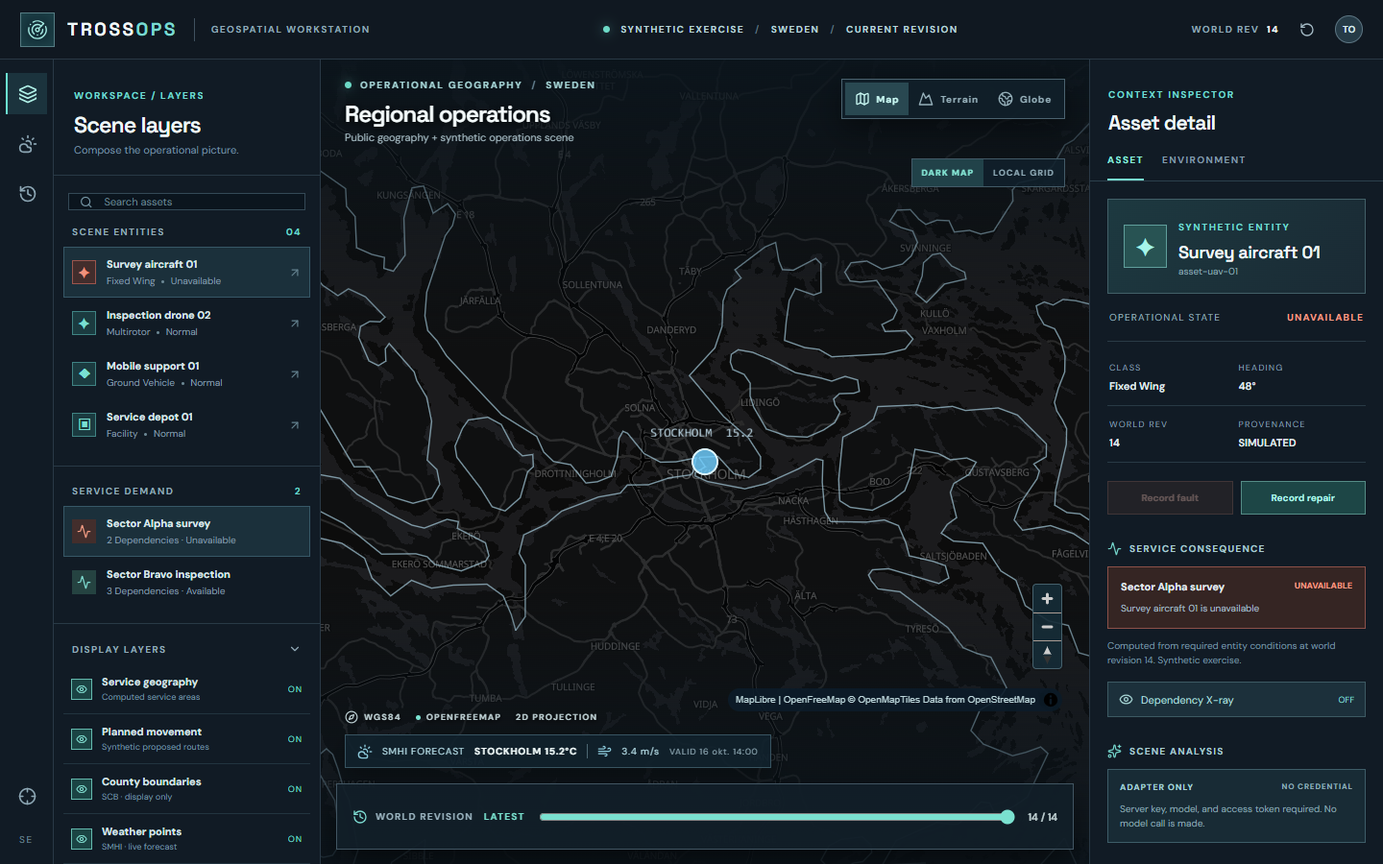
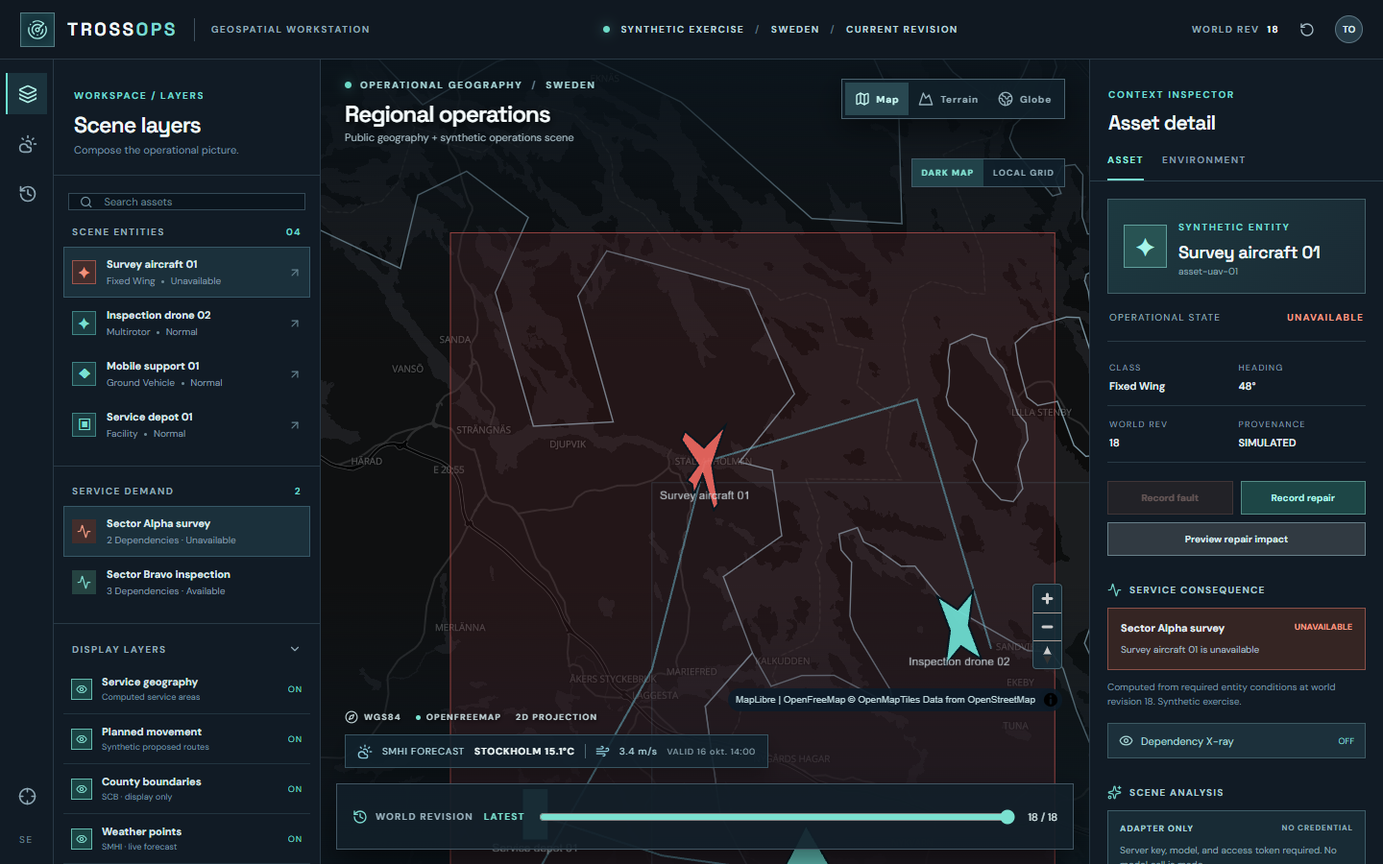
feat: preview synthetic service impacts without mutating world

diff --git a/frontend/src/App.tsx b/frontend/src/App.tsx
@@ -5,7 +5,7 @@ import {
   MapPin, Mountain, Radar, RotateCcw, Search, Shield, Sparkles, Thermometer, Wind,
 } from 'lucide-react'
 import { MapScene } from './MapScene'
-import type { Entity, Forecast, Scene, ViewMode } from './types'
+import type { Entity, Forecast, ScenarioPreview, Scene, ViewMode } from './types'
 
 type Panel = 'layers' | 'environment' | 'activity'
 type LayerKey = 'areas' | 'routes' | 'counties' | 'weather' | 'dependencies'
@@ -67,10 +67,13 @@ export function App() {
   const [analysis, setAnalysis] = useState<{ answer: string; worldRevision: number; serviceId: string; model: string } | null>(null)
   const [analysisBusy, setAnalysisBusy] = useState(false)
   const [analysisAccessToken, setAnalysisAccessToken] = useState('')
+  const [preview, setPreview] = useState<ScenarioPreview | null>(null)
+  const [previewBusy, setPreviewBusy] = useState(false)
   const revisionRequest = useRef(0)
 
-  const selected = scene?.entities.find(entity => entity.id === selectedId)
-  const service = scene?.services.find(item => item.id === selectedServiceId)
+  const displayScene = preview?.candidate ?? scene
+  const selected = displayScene?.entities.find(entity => entity.id === selectedId)
+  const service = displayScene?.services.find(item => item.id === selectedServiceId)
   const forecast = forecasts.find(item => item.location === selectedLocation)
   const replaying = !!scene && scene.worldRevision < scene.latestRevision
   const unavailableCount = scene?.services.filter(item => item.status === 'unavailable').length ?? 0
@@ -79,6 +82,7 @@ export function App() {
 
   async function refreshScene() {
     setError('')
+    setPreview(null)
     try {
       const response = await fetch('/api/scene')
       if (!response.ok) throw new Error(`Scene request failed: ${response.status}`)
@@ -110,6 +114,7 @@ export function App() {
   async function loadRevision(revision: number) {
     const request = ++revisionRequest.current
     setError('')
+    setPreview(null)
     try {
       const response = await fetch(`/api/scene?revision=${revision}`)
       if (!response.ok) throw new Error(`Revision ${revision} could not be loaded`)
@@ -119,7 +124,7 @@ export function App() {
   }
 
   async function update(kind: 'fault' | 'repair') {
-    if (!scene || !selected || replaying) return
+    if (!scene || !selected || replaying || preview) return
     setBusy(true)
     setError('')
     try {
@@ -148,6 +153,21 @@ export function App() {
     } catch (cause) { setError(String(cause)) } finally { setAnalysisBusy(false) }
   }
 
+  async function previewEvent(kind: 'fault' | 'repair') {
+    if (!scene || !selected) return
+    setPreviewBusy(true)
+    setError('')
+    try {
+      const response = await fetch('/api/scenarios/preview', {
+        method: 'POST', headers: { 'Content-Type': 'application/json' },
+        body: JSON.stringify({ assetId: selected.id, kind, baseRevision: scene.worldRevision }),
+      })
+      if (!response.ok) throw new Error('Scenario preview unavailable.')
+      setPreview(await response.json())
+      setFocus({ point: [selected.position.longitudeDeg, selected.position.latitudeDeg], zoom: 9.6, key: Date.now() })
+    } catch (cause) { setError(String(cause)) } finally { setPreviewBusy(false) }
+  }
+
   function focusCity(key: string) {
     setSelectedLocation(key)
     setInspectorTab('environment')
@@ -160,7 +180,7 @@ export function App() {
   return <div className="ws-shell">
     <header className="ws-topbar">
       <div className="ws-brand"><div className="ws-brand-icon"><Radar size={22} strokeWidth={1.5} /></div><span className="ws-wordmark">TROSS<span>OPS</span></span><span className="ws-brand-rule" /><span className="ws-product">GEOSPATIAL WORKSTATION</span></div>
-      <div className="ws-top-center"><span className="ws-online-pip" /> SYNTHETIC EXERCISE <span className="ws-top-separator">/</span> SWEDEN <span className="ws-top-separator">/</span> {replaying ? 'REPLAY' : 'CURRENT REVISION'}</div>
+      <div className="ws-top-center"><span className="ws-online-pip" /> SYNTHETIC EXERCISE <span className="ws-top-separator">/</span> SWEDEN <span className="ws-top-separator">/</span> {preview ? 'WHAT-IF PREVIEW' : replaying ? 'REPLAY' : 'CURRENT REVISION'}</div>
       <div className="ws-top-actions"><span className="ws-top-revision">WORLD REV <b>{scene?.worldRevision ?? '—'}</b></span><button title="Reload scene" onClick={() => void refreshScene()}><RotateCcw size={16} /></button><div className="ws-avatar">TO</div></div>
     </header>
 
@@ -173,9 +193,9 @@ export function App() {
       <aside className="ws-sidebar">
         <div className="ws-sidebar-heading"><span className="ws-eyebrow">WORKSPACE / {panel.toUpperCase()}</span><h1>{panel === 'layers' ? 'Scene layers' : panel === 'environment' ? 'Environment' : 'Activity log'}</h1><p>{panel === 'layers' ? 'Compose the operational picture.' : panel === 'environment' ? 'Public forecasts from SMHI.' : 'Revisioned synthetic event history.'}</p></div>
         {panel === 'layers' && <>
-          <AssetList entities={scene?.entities ?? []} selectedId={selectedId} search={search} setSearch={setSearch} onSelect={selectAsset} />
+          <AssetList entities={displayScene?.entities ?? []} selectedId={selectedId} search={search} setSearch={setSearch} onSelect={selectAsset} />
           <div className="ws-list-head ws-spaced"><span>SERVICE DEMAND</span><span>{scene?.services.length ?? 0}</span></div>
-          <div className="ws-service-list">{scene?.services.map(item => <button key={item.id} className={`ws-service ${item.id === selectedServiceId ? 'active' : ''}`} onClick={() => setSelectedServiceId(item.id)}><span className={`ws-service-icon ${item.status}`}><Activity size={15} /></span><span><strong>{item.label}</strong><small>{item.requiredEntityIds.length} dependencies · {item.status}</small></span></button>)}</div>
+          <div className="ws-service-list">{displayScene?.services.map(item => <button key={item.id} className={`ws-service ${item.id === selectedServiceId ? 'active' : ''}`} onClick={() => setSelectedServiceId(item.id)}><span className={`ws-service-icon ${item.status}`}><Activity size={15} /></span><span><strong>{item.label}</strong><small>{item.requiredEntityIds.length} dependencies · {item.status}</small></span></button>)}</div>
           <div className="ws-list-head ws-spaced"><span>DISPLAY LAYERS</span><ChevronDown size={14} /></div>
           <LayerSwitch label="Service geography" detail="Computed service areas" checked={layers.areas} onClick={() => toggleLayer('areas')} />
           <LayerSwitch label="Planned movement" detail="Synthetic proposed routes" checked={layers.routes} onClick={() => toggleLayer('routes')} />
@@ -185,13 +205,14 @@ export function App() {
         </>}
         {panel === 'environment' && <><div className="ws-list-head"><span>PUBLIC FORECAST POINTS</span><span>{weatherLoading ? 'SYNC' : '04'}</span></div><div className="ws-city-list">{cityOrder.map(key => { const item = forecasts.find(value => value.location === key); return <button key={key} className={`ws-city ${selectedLocation === key ? 'active' : ''}`} onClick={() => focusCity(key)}><MapPin size={15} /><span><strong>{item?.label ?? key}</strong><small>{item?.status === 'connected' ? `Valid ${formatTime(item.validTime)}` : 'Source unavailable'}</small></span><b>{item?.status === 'connected' ? `${numberText(item.data?.air_temperature, 1)}°` : '—'}</b></button> })}</div><div className="ws-source-note"><Shield size={16} /><span>Forecast data is public and time stamped. It is not an observation or a direct input to service feasibility.</span></div></>}
         {panel === 'activity' && <><div className="ws-list-head"><span>EVENT STREAM</span><span>REV {scene?.worldRevision ?? '—'}</span></div><div className="ws-event-list">{scene?.events.length ? [...scene.events].reverse().map(event => <div className="ws-event" key={event.id}><span className={`ws-event-dot ${event.kind}`} /><div><strong>{event.kind === 'fault' ? 'Fault recorded' : 'Repair recorded'}</strong><small>{event.assetId} · {formatTime(event.recordedAt)}</small></div><b>R{event.worldRevision}</b></div>) : <p className="ws-empty">No events at this revision.</p>}</div></>}
-        <div className="ws-sidebar-footer"><Database size={15} /><span>{scene?.dataNotice ?? 'Connecting to scene...'}</span></div>
+        <div className="ws-sidebar-footer"><Database size={15} /><span>{displayScene?.dataNotice ?? 'Connecting to scene...'}</span></div>
       </aside>
 
       <main className="ws-stage">
-        <MapScene scene={scene} selectedId={selectedId} selectedServiceId={selectedServiceId} showDependencies={layers.dependencies} showRoutes={layers.routes} showAreas={layers.areas} showCounties={layers.counties} showWeather={layers.weather} basemapMode={basemapMode} viewMode={viewMode} forecasts={forecasts} focus={focus} onBasemapFailure={() => setBasemapMode('local')} onSelect={selectAsset} onSelectWeather={focusCity} />
+        <MapScene scene={displayScene} selectedId={selectedId} selectedServiceId={selectedServiceId} showDependencies={layers.dependencies} showRoutes={layers.routes} showAreas={layers.areas} showCounties={layers.counties} showWeather={layers.weather} basemapMode={basemapMode} viewMode={viewMode} forecasts={forecasts} focus={focus} onBasemapFailure={() => setBasemapMode('local')} onSelect={selectAsset} onSelectWeather={focusCity} />
         <div className="ws-stage-vignette" aria-hidden="true" />
-        <div className="ws-scene-header"><div><div className="ws-scene-kicker"><span className="ws-pulse" /> OPERATIONAL GEOGRAPHY <span className="ws-slash">/</span> SWEDEN</div><h2>{viewMode === 'globe' ? 'Northern Europe' : viewMode === 'terrain' ? 'Terrain perspective' : 'Regional operations'}</h2><p>Public geography + synthetic operations scene</p></div><div className="ws-mode-switch" role="group" aria-label="Map view mode"><button className={viewMode === 'map' ? 'active' : ''} onClick={() => setViewMode('map')}><MapIcon size={16} /> Map</button><button className={viewMode === 'terrain' ? 'active' : ''} onClick={() => setViewMode('terrain')}><Mountain size={16} /> Terrain</button><button className={viewMode === 'globe' ? 'active' : ''} onClick={() => setViewMode('globe')}><Globe2 size={16} /> Globe</button></div></div>
+        <div className="ws-scene-header"><div><div className="ws-scene-kicker"><span className="ws-pulse" /> {preview ? 'HYPOTHETICAL SCENE' : 'OPERATIONAL GEOGRAPHY'} <span className="ws-slash">/</span> SWEDEN</div><h2>{viewMode === 'globe' ? 'Northern Europe' : viewMode === 'terrain' ? 'Terrain perspective' : 'Regional operations'}</h2><p>Public geography + synthetic operations scene</p></div><div className="ws-mode-switch" role="group" aria-label="Map view mode"><button className={viewMode === 'map' ? 'active' : ''} onClick={() => setViewMode('map')}><MapIcon size={16} /> Map</button><button className={viewMode === 'terrain' ? 'active' : ''} onClick={() => setViewMode('terrain')}><Mountain size={16} /> Terrain</button><button className={viewMode === 'globe' ? 'active' : ''} onClick={() => setViewMode('globe')}><Globe2 size={16} /> Globe</button></div></div>
+        {preview && <div className="ws-preview-banner"><span>WHAT IF / {preview.eventKind.toUpperCase()} / {preview.assetId}</span><b>{preview.impacts.length} SERVICE {preview.impacts.length === 1 ? 'CHANGE' : 'CHANGES'}</b><button onClick={() => setPreview(null)}>Exit preview</button></div>}
         <div className="ws-map-tools"><button className={basemapMode === 'online' ? 'active' : ''} onClick={() => setBasemapMode('online')}>DARK MAP</button><button className={basemapMode === 'local' ? 'active' : ''} onClick={() => setBasemapMode('local')}>LOCAL GRID</button></div>
         <div className="ws-map-meta"><span><Compass size={14} /> WGS84</span><span><span className="ws-map-meta-dot" /> {basemapMode === 'online' ? 'OPENFREEMAP' : 'LOCAL MODE'}</span><span>{viewMode === 'terrain' ? 'MAPTERHORN DEM' : viewMode === 'globe' ? 'GLOBE PROJECTION' : '2D PROJECTION'}</span></div>
         <div className="ws-weather-ribbon"><CloudSun size={16} /><span>SMHI FORECAST</span><b>{forecast?.status === 'connected' ? `${forecast.label.toUpperCase()} ${numberText(forecast.data?.air_temperature, 1)}°C` : 'UNAVAILABLE'}</b><span className="ws-ribbon-divider" /> <Wind size={15} /><span>{forecast?.status === 'connected' ? `${numberText(forecast.data?.wind_speed, 1)} m/s` : '—'}</span><small>{forecast?.status === 'connected' ? `VALID ${formatTime(forecast.validTime)}` : 'NO LIVE VALUE'}</small></div>
@@ -200,9 +221,9 @@ export function App() {
       </main>
 
       <aside className="ws-inspector"><div className="ws-inspector-head"><div><span className="ws-eyebrow">CONTEXT INSPECTOR</span><h2>{inspectorTab === 'asset' ? 'Asset detail' : 'Environmental data'}</h2></div></div><div className="ws-inspector-tabs"><button className={inspectorTab === 'asset' ? 'active' : ''} onClick={() => setInspectorTab('asset')}>ASSET</button><button className={inspectorTab === 'environment' ? 'active' : ''} onClick={() => setInspectorTab('environment')}>ENVIRONMENT</button></div>
-        {inspectorTab === 'asset' ? <div className="ws-inspector-content"><div className="ws-object-card"><div className="ws-object-icon">{selected?.kind === 'facility' ? '▣' : selected?.kind === 'ground_vehicle' ? '◆' : '✦'}</div><div><span className="ws-eyebrow">SYNTHETIC ENTITY</span><h3>{selected?.label ?? 'Select an asset'}</h3><p>{selected?.resourceId ?? 'No selection'}</p></div></div>{selected && <><div className="ws-status-line"><span>OPERATIONAL STATE</span><b className={selected.condition}>{selected.condition.toUpperCase()}</b></div><div className="ws-detail-grid"><div><span>CLASS</span><b>{selected.kind.replace('_', ' ')}</b></div><div><span>HEADING</span><b>{selected.headingDeg}°</b></div><div><span>WORLD REV</span><b>{selected.worldRevision}</b></div><div><span>PROVENANCE</span><b>SIMULATED</b></div></div><div className="ws-object-actions"><button disabled={busy || replaying || selected.condition === 'unavailable'} onClick={() => void update('fault')}>Record fault</button><button disabled={busy || replaying || selected.condition === 'normal'} onClick={() => void update('repair')}>Record repair</button></div></>}
+        {inspectorTab === 'asset' ? <div className="ws-inspector-content"><div className="ws-object-card"><div className="ws-object-icon">{selected?.kind === 'facility' ? '▣' : selected?.kind === 'ground_vehicle' ? '◆' : '✦'}</div><div><span className="ws-eyebrow">{preview ? 'HYPOTHETICAL ENTITY' : 'SYNTHETIC ENTITY'}</span><h3>{selected?.label ?? 'Select an asset'}</h3><p>{selected?.resourceId ?? 'No selection'}</p></div></div>{selected && <><div className="ws-status-line"><span>OPERATIONAL STATE</span><b className={selected.condition}>{selected.condition.toUpperCase()}</b></div><div className="ws-detail-grid"><div><span>CLASS</span><b>{selected.kind.replace('_', ' ')}</b></div><div><span>HEADING</span><b>{selected.headingDeg}°</b></div><div><span>WORLD REV</span><b>{selected.worldRevision}</b></div><div><span>PROVENANCE</span><b>{preview ? 'WHAT-IF' : 'SIMULATED'}</b></div></div><div className="ws-object-actions"><button disabled={busy || replaying || !!preview || selected.condition === 'unavailable'} onClick={() => void update('fault')}>Record fault</button><button disabled={busy || replaying || !!preview || selected.condition === 'normal'} onClick={() => void update('repair')}>Record repair</button></div><div className="ws-preview-actions">{preview ? <button onClick={() => setPreview(null)}>Return to current world</button> : <button disabled={previewBusy} onClick={() => void previewEvent(selected.condition === 'unavailable' ? 'repair' : 'fault')}>{previewBusy ? 'Computing preview…' : `Preview ${selected.condition === 'unavailable' ? 'repair' : 'fault'} impact`}</button>}</div></>}
           <div className="ws-section-title"><Activity size={15} /> SERVICE CONSEQUENCE</div><div className={`ws-consequence ${service?.status ?? ''}`}><div><span>{service?.label ?? 'Loading...'}</span><b>{service?.status?.toUpperCase() ?? '—'}</b></div><p>{service?.blockers.length ? service.blockers.join(' · ') : 'All required assets operational.'}</p></div><p className="ws-evidence">Computed from required entity conditions at world revision {scene?.worldRevision ?? '—'}. Synthetic exercise.</p><button className={`ws-xray ${layers.dependencies ? 'active' : ''}`} onClick={() => toggleLayer('dependencies')}><Eye size={15} /> Dependency X-ray <span>{layers.dependencies ? 'ON' : 'OFF'}</span></button>
-          <div className="ws-section-title"><Sparkles size={15} /> SCENE ANALYSIS</div><div className="ws-ai-card"><div className="ws-ai-status"><span>{analysisStatus === 'configured' ? 'OPENAI ADAPTER READY' : 'ADAPTER ONLY'}</span><b>{analysisStatus === 'configured' ? 'CONFIGURED' : 'NO CREDENTIAL'}</b></div>{analysisStatus === 'configured' ? <><input type="password" aria-label="Analysis access token" placeholder="Analysis access token" value={analysisAccessToken} onChange={event => setAnalysisAccessToken(event.target.value)} /><button disabled={analysisBusy || !analysisAccessToken} onClick={() => void requestAnalysis()}>{analysisBusy ? 'Generating…' : 'Analyze selected service'}</button></> : <p>Server key, model, and access token required. No model call is made.</p>}{analysis && analysis.worldRevision === scene?.worldRevision && analysis.serviceId === selectedServiceId && <div className="ws-ai-answer"><span>MODEL GENERATED · {analysis.model} · REV {analysis.worldRevision}</span><p>{analysis.answer}</p></div>}</div>
+          <div className="ws-section-title"><Sparkles size={15} /> SCENE ANALYSIS</div><div className="ws-ai-card"><div className="ws-ai-status"><span>{analysisStatus === 'configured' ? 'OPENAI ADAPTER READY' : 'ADAPTER ONLY'}</span><b>{analysisStatus === 'configured' ? 'CONFIGURED' : 'NO CREDENTIAL'}</b></div>{analysisStatus === 'configured' ? <><input type="password" aria-label="Analysis access token" placeholder="Analysis access token" value={analysisAccessToken} onChange={event => setAnalysisAccessToken(event.target.value)} /><button disabled={analysisBusy || !analysisAccessToken || !!preview} onClick={() => void requestAnalysis()}>{analysisBusy ? 'Generating…' : 'Analyze selected service'}</button></> : <p>Server key, model, and access token required. No model call is made.</p>}{preview && <p>Model analysis uses committed revisions. Exit preview first.</p>}{!preview && analysis && analysis.worldRevision === scene?.worldRevision && analysis.serviceId === selectedServiceId && <div className="ws-ai-answer"><span>MODEL GENERATED · {analysis.model} · REV {analysis.worldRevision}</span><p>{analysis.answer}</p></div>}</div>
           <div className="ws-section-title"><History size={15} /> RECENT EVENTS</div><div className="ws-mini-events">{scene?.events.length ? [...scene.events].reverse().slice(0, 3).map(event => <div key={event.id}><span className={event.kind}>{event.kind.toUpperCase()}</span><span>{event.assetId}</span><b>REV {event.worldRevision}</b></div>) : <p>No events at this revision.</p>}</div>
         </div> : <div className="ws-inspector-content"><div className="ws-weather-title"><span className="ws-eyebrow">SMHI / POINT FORECAST</span><h3>{forecast?.label ?? selectedLocation}</h3><p>{forecast?.status === 'connected' ? `Valid ${formatTime(forecast.validTime)}` : 'Live forecast unavailable'}</p></div>{forecast?.status === 'connected' ? <><div className="ws-weather-hero"><Thermometer size={22} /><strong>{numberText(forecast.data?.air_temperature, 1)}<sup>°C</sup></strong><span>FORECAST AIR TEMPERATURE</span></div><div className="ws-weather-metrics"><div><Wind size={17} /><span>WIND SPEED</span><b>{numberText(forecast.data?.wind_speed, 1)} m/s</b></div><div><Compass size={17} /><span>WIND FROM</span><b>{numberText(forecast.data?.wind_from_direction)}°</b></div><div><CloudSun size={17} /><span>CLOUD COVER</span><b>{numberText(forecast.data?.cloud_area_fraction)} / 8</b></div><div><CloudSun size={17} /><span>PRECIP. PROB.</span><b>{numberText(forecast.data?.probability_of_precipitation)}%</b></div></div><div className="ws-forecast-meta"><div><span>FORECAST ISSUED</span><b>{formatTime(forecast.referenceTime)}</b></div><div><span>GRID POINT</span><b>{forecast.gridPoint?.map(value => value.toFixed(3)).join(', ') ?? '—'}</b></div><a href={forecast.sourceUrl} target="_blank" rel="noreferrer">SMHI source <ArrowUpRight size={14} /></a></div></> : <p className="ws-unavailable">{forecast?.reason ?? 'Connecting to SMHI...'}</p>}<div className="ws-source-note"><Shield size={16} /><span>Forecast values are modelled, time stamped environmental data. They are not observations or synthetic operational facts.</span></div></div>}
         <div className="ws-inspector-footer"><span className="ws-online-pip" /> {scene?.sourceKind?.toUpperCase() ?? 'CONNECTING'} WORLD <span>MODEL {scene?.modelVersion ?? '—'}</span></div>

diff --git a/frontend/src/preview.css b/frontend/src/preview.css
@@ -1,0 +1,1 @@
+.ws-preview-banner{position:absolute;z-index:4;top:204px;left:25px;display:flex;align-items:center;gap:11px;padding:9px 11px;background:#3b2b25eb;border:1px solid #c78263;box-shadow:0 8px 20px #0007;color:#ffd7c1;font-size:10px;letter-spacing:.09em;font-weight:700}.ws-preview-banner b{color:#fff1dc;font-size:9px}.ws-preview-banner button{border:1px solid #d99b79;background:#674131;color:#fff1e5;font-size:9px;padding:6px 8px}.ws-preview-actions{margin-top:8px}.ws-preview-actions button{width:100%;padding:10px 8px;background:#313a42;color:#d8ebec;border:1px solid #688089;font-size:10px;font-weight:700}.ws-preview-actions button:hover:not(:disabled){background:#3b5057}.ws-preview-actions button:disabled{opacity:.5}@media(max-width:760px){.ws-preview-banner{top:204px;left:10px;right:10px;flex-wrap:wrap}}

diff --git a/frontend/src/types.ts b/frontend/src/types.ts
@@ -20,3 +20,9 @@ export type Forecast = {
 }
 
 export type ViewMode = 'map' | 'terrain' | 'globe'
+
+export type ScenarioPreview = {
+  status: 'preview'; baseRevision: number; assetId: string; eventKind: 'fault' | 'repair';
+  baseline: Scene; candidate: Scene;
+  impacts: { serviceId: string; label: string; before: string; after: string; blockers: string[] }[];
+}

diff --git a/frontend/src/main.tsx b/frontend/src/main.tsx
@@ -11,6 +11,7 @@ import './status.css'
 import './studio.css'
 import './analysis.css'
 import './analysis-access.css'
+import './preview.css'
 import { App } from './App'
 
 createRoot(document.getElementById('root')!).render(<React.StrictMode><App /></React.StrictMode>)

diff --git a/backend/app/main.py b/backend/app/main.py
@@ -50,6 +50,12 @@ class AnalysisIn(BaseModel):
     worldRevision: int = Field(ge=1)
 
 
+class PreviewIn(BaseModel):
+    assetId: str
+    kind: Literal["fault", "repair"]
+    baseRevision: int = Field(ge=1)
+
+
 class World:
     def __init__(self, db_path: Path | None = None) -> None:
         self.lock = Lock()
@@ -144,6 +150,33 @@ class World:
             })
         return self.snapshot()
 
+    def preview(self, request: PreviewIn) -> dict:
+        baseline = self.snapshot(request.baseRevision)
+        candidate = deepcopy(baseline)
+        entity = next((item for item in candidate["entities"] if item["id"] == request.assetId), None)
+        if entity is None:
+            raise HTTPException(404, "Asset not found")
+        entity["condition"] = "unavailable" if request.kind == "fault" else "normal"
+        by_id = {item["id"]: item for item in candidate["entities"]}
+        impacts = []
+        for service in candidate["services"]:
+            blockers = [
+                f"{by_id[entity_id]['label']} is unavailable"
+                for entity_id in service["requiredEntityIds"]
+                if by_id[entity_id]["condition"] != "normal"
+            ]
+            previous = next(item for item in baseline["services"] if item["id"] == service["id"])
+            service["blockers"] = blockers
+            service["status"] = "unavailable" if blockers else "available"
+            if service["status"] != previous["status"] or blockers != previous["blockers"]:
+                impacts.append({"serviceId": service["id"], "label": service["label"],
+                                "before": previous["status"], "after": service["status"], "blockers": blockers})
+        candidate["scenarioId"] = f"preview-{request.kind}-{request.assetId}-r{request.baseRevision}"
+        candidate["previewKind"] = "hypothetical"
+        candidate["dataNotice"] = "Hypothetical synthetic preview. No event was committed."
+        return {"status": "preview", "baseRevision": request.baseRevision, "assetId": request.assetId,
+                "eventKind": request.kind, "baseline": baseline, "candidate": candidate, "impacts": impacts}
+
 
 default_db_path = Path(__file__).parents[1] / "data" / "demo.sqlite"
 world = World(Path(os.environ.get("TROSSOPS_DB_PATH", str(default_db_path))))
@@ -165,6 +198,11 @@ def scene(revision: int | None = None) -> dict:
 @app.post("/api/events")
 def apply_event(event: EventIn) -> dict:
     return world.apply(event)
+
+
+@app.post("/api/scenarios/preview")
+def preview_scenario(request: PreviewIn) -> dict:
+    return world.preview(request)
 
 
 @app.get("/api/environment/points")

diff --git a/backend/tests/test_scene.py b/backend/tests/test_scene.py
@@ -47,3 +47,16 @@ def test_api_health_and_scene() -> None:
     assert scene["sourceKind"] == "simulated"
     assert len(scene["entities"]) == 4
     assert len(scene["services"]) == 2
+
+
+def test_preview_shows_service_impact_without_mutating_world() -> None:
+    from app.main import PreviewIn
+    world = World()
+    before = world.snapshot()
+    result = world.preview(PreviewIn(assetId="support-01", kind="fault", baseRevision=1))
+    assert result["candidate"]["previewKind"] == "hypothetical"
+    assert result["candidate"]["entities"][2]["condition"] == "unavailable"
+    assert {item["serviceId"] for item in result["impacts"]} == {"survey-sector-alpha", "inspection-sector-bravo"}
+    assert all(item["after"] == "unavailable" for item in result["impacts"])
+    assert world.snapshot() == before
+    assert world.revision == 1

diff --git a/docs/geospatial/verification.md b/docs/geospatial/verification.md
@@ -4,9 +4,9 @@
 
 ## Executed
 
-- `cd backend; python -m pytest -q`: **9 passed**. Tests cover revisioned synthetic world behavior, SMHI forecast parsing, LLM fact selection/output parsing, and disabled/token-gated adapter responses.
+- `cd backend; python -m pytest -q`: **10 passed**. Tests cover revisioned synthetic world behavior, read-only what-if impact, SMHI forecast parsing, LLM fact selection/output parsing, and disabled/token-gated adapter responses.
 - `cd frontend; npm.cmd run build`: **passed** with MapLibre GL JS 6.14.0 and deck.gl 9.4.0. Vite reports a large main JS chunk; splitting remains open.
-- `cd frontend; node scripts/verify-local.mjs`: **passed**, page errors **0**. Exercised search, county toggle, terrain and globe mode switches, weather inspector, fault → service consequence → replay → repair, and forced online tile failure → local grid.
+- `cd frontend; node scripts/verify-local.mjs`: **passed**, page errors **0**. Exercised search, county toggle, terrain and globe mode switches, weather inspector, what-if fault → unchanged world revision → exit preview, fault → service consequence → replay → repair, and forced online tile failure → local grid.
 - The browser showed **adapter-only** for the analysis section; no model request was made.
 - Live API request for Stockholm returned a connected SMHI forecast with air temperature, wind speed/direction, cloud cover, and forecast timestamps.
 
@@ -16,6 +16,7 @@
 - [Terrain perspective](local-browser-terrain.png)
 - [Globe and county boundaries](local-browser-globe.png)
 - [Weather inspector](local-browser-weather.png)
+- [Hypothetical fault preview](local-browser-preview.png)
 - [Fault consequence](local-browser-fault.png)
 - [Offline basemap fallback](local-browser-fallback.png)
 

diff --git a/README.md b/README.md
@@ -20,7 +20,7 @@ npm.cmd install
 npm.cmd run dev
 ```
 
-Open `http://127.0.0.1:5173`. Switch between map, terrain, and globe views; turn on SCB county boundaries; inspect timestamped SMHI forecasts for four Swedish cities; and switch between the online dark map and local grid. Select an asset, record a fault, and observe the revision, condition, service consequence, and event history. Scrub revisions and record a repair to restore the service. The local SQLite event store survives API restarts at `backend/data/demo.sqlite` (ignored by Git). Set `TROSSOPS_DB_PATH` before starting the API to use another local path. See [data sources and attribution](docs/geospatial/styles.md).
+Open `http://127.0.0.1:5173`. Switch between map, terrain, and globe views; turn on SCB county boundaries; inspect timestamped SMHI forecasts for four Swedish cities; and switch between the online dark map and local grid. Select an asset and preview a hypothetical fault without changing the world revision. Exit preview, record a real synthetic fault, then observe the revision, condition, service consequence, and event history. Scrub revisions and record a repair to restore the service. The local SQLite event store survives API restarts at `backend/data/demo.sqlite` (ignored by Git). Set `TROSSOPS_DB_PATH` before starting the API to use another local path. See [data sources and attribution](docs/geospatial/styles.md).
 
 ## Checks
 

diff --git a/docs/geospatial/integration-matrix.md b/docs/geospatial/integration-matrix.md
@@ -4,6 +4,7 @@
 |---|---|---|
 | Synthetic scene API | partial | Revision checked commands, deterministic replay, and local SQLite persistence. Hosted persistence and multi-user concurrency remain. |
 | Service consequence | partial | Backend computes two services from required asset conditions. Capacity and time reasoning remain. |
+| What-if preview | partial | Read-only fault/repair preview recomputes impacted services from any valid revision; Edge confirms no authoritative revision change. Multi-event branches and comparison UI remain. |
 | Map workstation | partial | MapLibre 6 with deck.gl's dedicated MapLibre adapter; layer toggles, selectable synthetic geometry, search, replay, and Edge browser flow. |
 | Terrain and globe | partial | Mapterhorn DEM terrain and MapLibre globe rendered in Edge. Terrain overlays are illustrative and are not draped on the DEM. Detailed 3D assets and altitude semantics remain. |
 | Swedish county boundaries | working | 21 SCB CC0 county shapes converted to WGS84 and displayed. SCB simplifies these boundaries for thematic display; no precise boundary analysis. |
